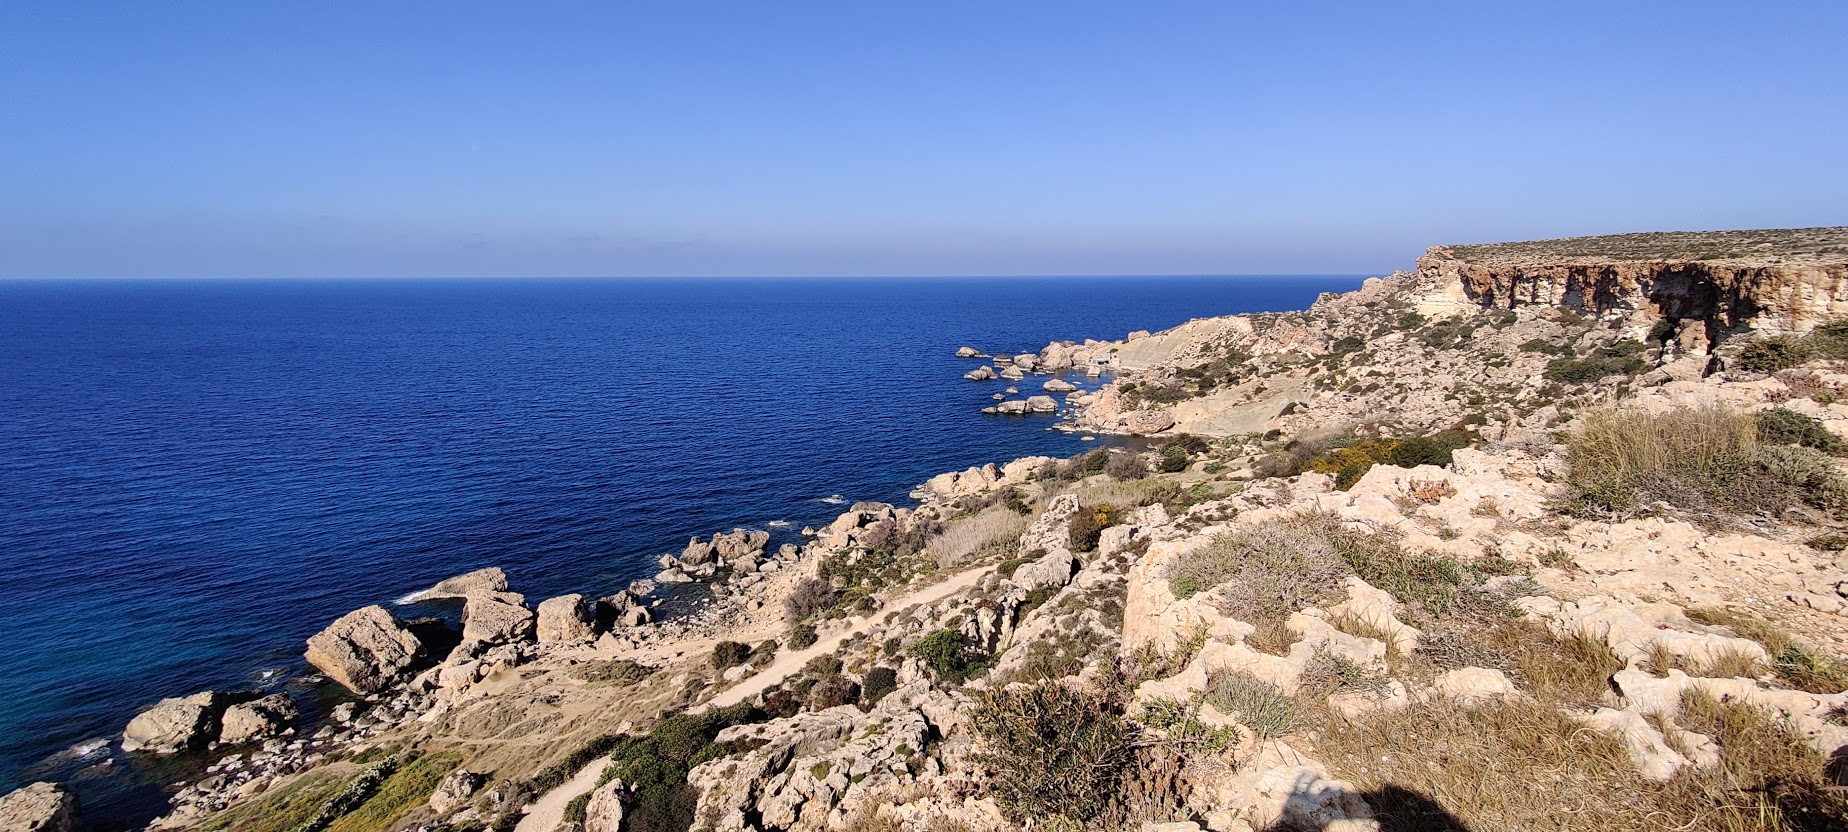
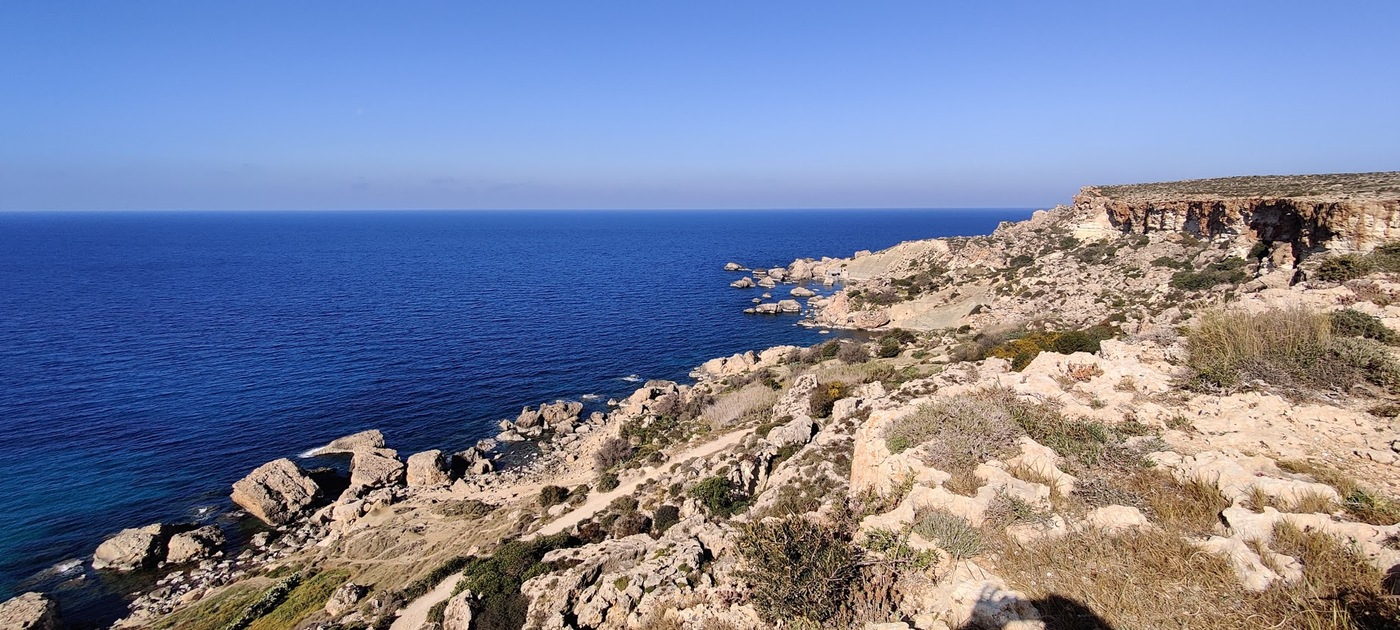
REsize bg img

diff --git a/assets/css/style.css b/assets/css/style.css
@@ -373,9 +373,9 @@ h1.YEAR {
   width: 100%;
   height: 100vh;
   background-image: url(../img/hero-bg.jpg);
-  /*background-position: center top;*/
+  background-position: center top;
   background-attachment: scroll;
-  /*background-size: cover;*/
+  background-size: cover;
   position: relative;
 }
 
